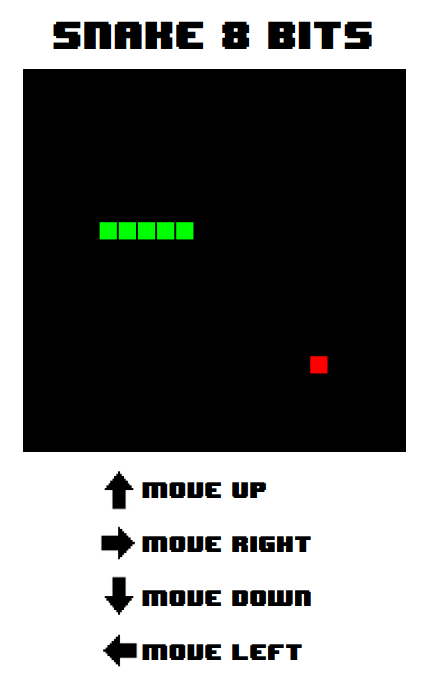
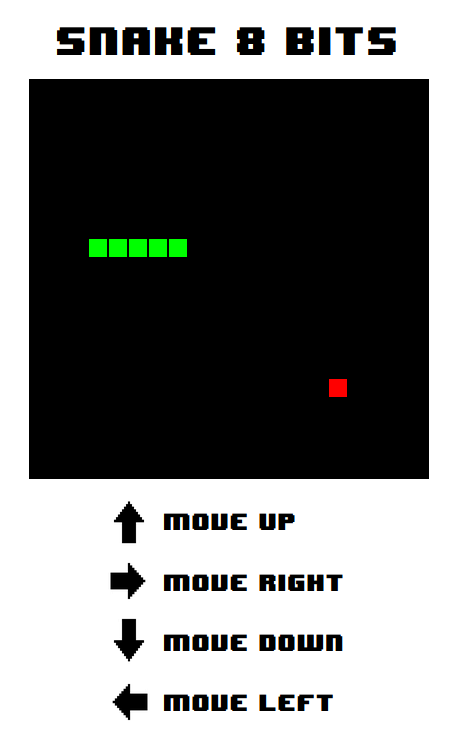
Update sample image, recentered instructions and linked game title

diff --git a/css/styles.css b/css/styles.css
@@ -8,6 +8,8 @@ body {
 	font-family: "8bits";
 }
 
+a {text-decoration: none; color: black;}
+
 #game {
 	margin-bottom: 10px;
 }
@@ -26,3 +28,5 @@ body {
 .instructions-buttons {
 	display: flex;
 }
+
+.instructions-buttons h3 {margin-left: 10px;}

diff --git a/index.html b/index.html
@@ -9,7 +9,7 @@
 
 	<body>
 		<div id="game">
-			<h1>Snake 8 Bits</h1>
+			<a href="index.html"><h1>Snake 8 Bits</h1></a>
 			<canvas id="gc" width="400" height="400"></canvas>
 		</div>
 
